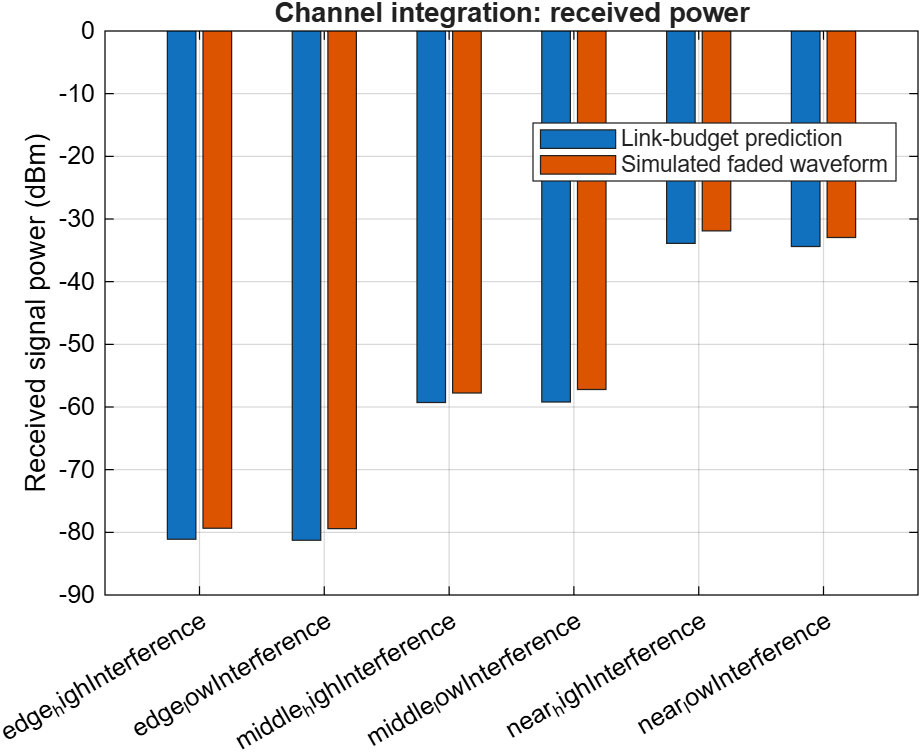
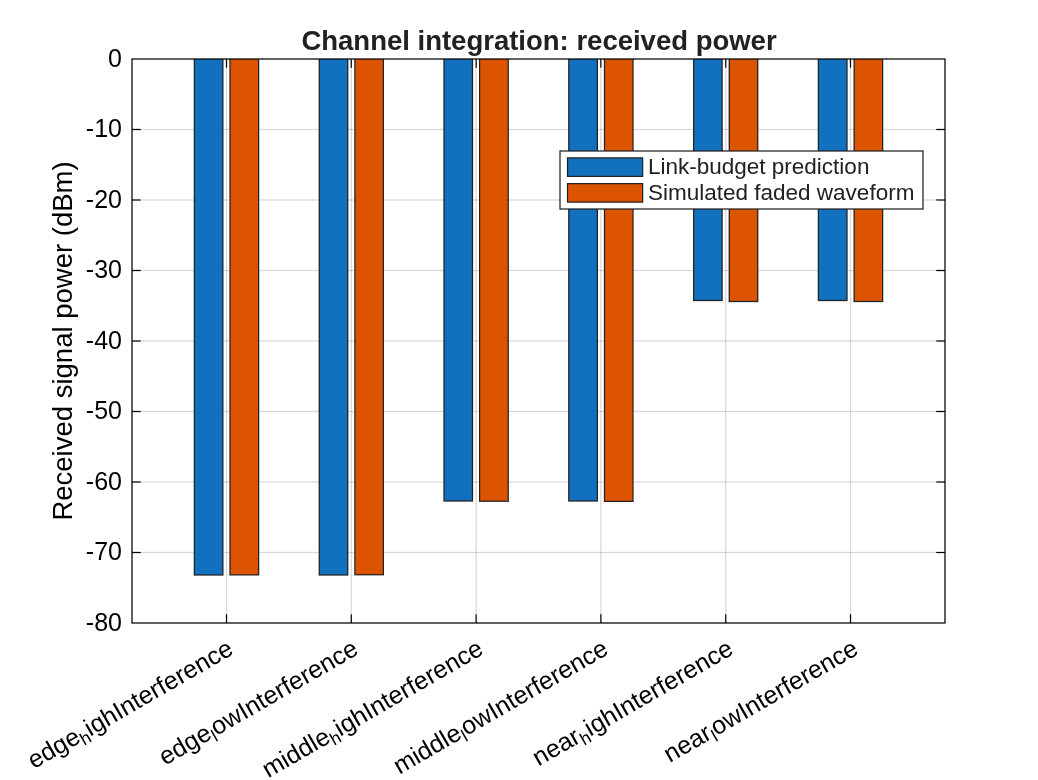
Fix OFDM interference and per-location shadowing

diff --git a/code/applyChannel.m b/code/applyChannel.m
@@ -15,8 +15,10 @@ for k=1:numel(required)
     assert(isfield(cfg,required{k}), 'Missing cfg field: %s', required{k});
 end
 assert(isfield(scenario,'distanceM') && isfield(scenario,'obstacleLossDb') && ...
-    isfield(scenario,'interferencePowerDbm') && isfield(scenario,'seed'), ...
-    'Scenario must contain distanceM, obstacleLossDb, interferencePowerDbm and seed.');
+    isfield(scenario,'interferencePowerDbm') && isfield(scenario,'seed') && ...
+    isfield(scenario,'shadowingDb'), ...
+    'Use channelScenarios: scenario needs distanceM, obstacleLossDb, interferencePowerDbm, seed and shadowingDb.');
+validateattributes(scenario.shadowingDb,{'numeric'},{'scalar','real','finite'});
 assert(cfg.sampleRateHz==cfg.bandwidthHz, 'Baseline expects sample rate = bandwidth.');
 assert(max(cfg.channelTapDelaysSamples)<cfg.cpLength, ...
     'Maximum channel delay should be less than the OFDM cyclic prefix.');
@@ -28,7 +30,7 @@ c = 299792458;
 d0 = cfg.referenceDistanceM;
 fsplDb = 20*log10(4*pi*d0*cfg.centerFrequencyHz/c);
 pathLossDb = fsplDb + 10*cfg.pathLossExponent*log10(max(scenario.distanceM,d0)/d0);
-shadowDb = cfg.shadowSigmaDb*randn(stream,1,1);
+shadowDb = scenario.shadowingDb;
 % Received signal power relative to transmit waveform: antenna gains and feeder
 % loss are included once in the RF link budget; txWaveform already has Tx power.
 largeScaleLossDb = pathLossDb + shadowDb + scenario.obstacleLossDb ...
@@ -57,15 +59,10 @@ kB=1.380649e-23; temperatureK=290;
 noisePowerW=kB*temperatureK*cfg.bandwidthHz*10^(cfg.noiseFigureDb/10);
 noise=sqrt(noisePowerW/2)*(randn(stream,size(faded))+1i*randn(stream,size(faded)));
 
-% Independent in-band co-channel interference at the specified receiver-input
-% power. A complex Gaussian process is used as a tractable wideband interferer
-% proxy; this is not a standards-compliant second WLAN transmitter waveform.
-interferencePowerW=0;
-interference=complex(zeros(size(faded)));
-if isfinite(scenario.interferencePowerDbm)
-    interferencePowerW=10^((scenario.interferencePowerDbm-30)/10);
-    interference=sqrt(interferencePowerW/2)*(randn(stream,size(faded))+1i*randn(stream,size(faded)));
-end
+% Independent continuous OFDM traffic, asynchronously cropped and scaled at
+% the receiver input. This custom waveform is not a standards-compliant WLAN.
+[interference,interfererInfo]=channelOfdmInterference( ...
+    numel(faded),cfg,scenario.interferencePowerDbm,scenario.seed+1000000);
 rxWaveform=faded+noise+interference;
 
 signalPowerW=mean(abs(faded).^2);
@@ -82,6 +79,7 @@ info.eirpDbm=cfg.txPowerDbm+cfg.txAntennaGainDbi-cfg.feederLossDb;
 info.predictedReceivedPowerDbm=info.eirpDbm+cfg.rxAntennaGainDbi-pathLossDb-shadowDb-scenario.obstacleLossDb;
 info.noisePowerDbm=10*log10(noisePowerW/1e-3);
 info.interferenceTargetDbm=scenario.interferencePowerDbm;
+info.interferer=interfererInfo;
 info.signalPowerW=signalPowerW;
 info.measuredSignalPowerDbm=10*log10(max(signalPowerW,realmin)/1e-3);
 info.measuredNoisePowerW=measuredNoiseW;

diff --git a/code/checkChannelIntegration.m b/code/checkChannelIntegration.m
@@ -11,4 +11,40 @@ assert(isequal(rx1,rx2),'Same seed should reproduce the channel waveform.');
 assert(numel(rx1)==numel(tx)+info1.leadingDelaySamples,'Unexpected received length.');
 assert(isfinite(info1.sinrDb) && isfinite(info2.sinrDb));
 assert(info1.leadingDelaySamples==8);
+% Shadowing stays fixed across frames and loads; fading varies by frame.
+assert(isequal(scenarios,channelScenarios(cfg)));
+for s=1:2:numel(scenarios)
+    assert(scenarios(s).shadowingDb==scenarios(s+1).shadowingDb);
+    [~,low]=applyChannel(tx,cfg,scenarios(s));
+    [~,high]=applyChannel(tx,cfg,scenarios(s+1));
+    assert(isequal(low.multipathTaps,high.multipathTaps));
+    for f=1:3
+        trial=scenarios(s); trial.seed=trial.seed+f;
+        [~,next]=applyChannel(tx,cfg,trial);
+        assert(next.shadowingDb==low.shadowingDb);
+        assert(~isequal(next.multipathTaps,low.multipathTaps));
+    end
+end
+% Verify OFDM structure (CP and null FFT bins), not just random power.
+state=rng;
+[interferer,details]=channelOfdmInterference(1000,cfg,-80,12345);
+assert(isequal(state,rng),'Interferer must preserve caller RNG.');
+[again,~]=channelOfdmInterference(1000,cfg,-80,12345);
+assert(isequal(interferer,again));
+assert(abs(mean(abs(interferer).^2)/1e-11-1)<1e-12);
+L=cfg.nFFT+cfg.cpLength;
+assert(details.offsetSamples>0 && details.offsetSamples<L);
+firstFull=L-details.offsetSamples+1;
+block=interferer(firstFull:firstFull+L-1);
+assert(norm(block(1:cfg.cpLength)-block(end-cfg.cpLength+1:end))<1e-15);
+bins=fft(block(cfg.cpLength+1:end));
+active=mod([cfg.dataBins cfg.pilotBins],cfg.nFFT)+1;
+nulls=setdiff(1:cfg.nFFT,active);
+assert(norm(bins(nulls))<1e-12*norm(bins(active)));
+[strong,~]=channelOfdmInterference(1000,cfg,-50,12345);
+assert(norm(strong-sqrt(1000)*interferer)<1e-12*norm(strong));
+[off,~]=channelOfdmInterference(1000,cfg,-Inf,12345);
+assert(all(off==0));
+assert(abs(info1.measuredInterferencePowerW/ ...
+    10^((scenarios(1).interferencePowerDbm-30)/10)-1)<1e-12);
 disp('Transmitter-to-channel integration checks passed.');

diff --git a/code/channelOfdmInterference.m b/code/channelOfdmInterference.m
@@ -1,0 +1,26 @@
+function [waveform,info] = channelOfdmInterference(sampleCount,cfg,powerDbm,seed)
+%CHANNELOFDMINTERFERENCE Independent QPSK OFDM traffic at receiver-input power.
+% Own random stream; 48 data carriers, configured pilots/nulls and CP.
+% Crop at a nonzero sample offset to avoid symbol alignment with desired Tx.
+% Scale the retained observation to the requested average power in watts.
+validateattributes(sampleCount,{'numeric'},{'scalar','integer','positive'});
+validateattributes(powerDbm,{'numeric'},{'scalar','real'});
+assert(isfinite(powerDbm) || powerDbm==-Inf,'Power must be finite or -Inf (disabled).');
+info=struct('seed',seed,'offsetSamples',0,'mode','QPSK');
+waveform=complex(zeros(sampleCount,1));
+if powerDbm==-Inf, return; end
+stream=RandStream('mt19937ar','Seed',double(seed));
+symbolLength=cfg.nFFT+cfg.cpLength;
+offset=randi(stream,symbolLength-1);
+nSymbols=ceil((sampleCount+offset)/symbolLength);
+traffic=complex(zeros(nSymbols*symbolLength,1));
+for k=1:nSymbols
+    bits=logical(randi(stream,[0 1],2*numel(cfg.dataBins),1));
+    symbols=txQamMap(bits,'QPSK');
+    traffic((k-1)*symbolLength+(1:symbolLength))=txOfdmSymbol(symbols,cfg);
+end
+waveform=traffic(offset+(1:sampleCount));
+powerW=10^((powerDbm-30)/10);
+waveform=waveform*sqrt(powerW/mean(abs(waveform).^2));
+info.offsetSamples=offset;
+end

diff --git a/code/channelScenarios.m b/code/channelScenarios.m
@@ -1,16 +1,21 @@
 function scenarios = channelScenarios(cfg)
 %CHANNELSCENARIOS Six cases from the shared project configuration.
 if nargin<1 || isempty(cfg), cfg=getConfig(); end
-scenarios=struct('name',{},'distanceM',{},'obstacleLossDb',{},'interferencePowerDbm',{},'seed',{});
+scenarios=struct('name',{},'distanceM',{},'obstacleLossDb',{},'interferencePowerDbm',{},'seed',{},'shadowingDb',{});
 k=0;
 for i=1:numel(cfg.distanceM)
+    % One reproducible shadow draw per location, shared across loads/frames.
+    shadowStream=RandStream('mt19937ar','Seed',double(cfg.channelSeed+10000+i));
+    shadowDb=cfg.shadowSigmaDb*randn(shadowStream,1,1);
     for j=1:numel(cfg.interferencePowerDbm)
         k=k+1;
         scenarios(k).name=sprintf('%s_%sInterference',cfg.locationNames{i},cfg.interferenceNames{j});
         scenarios(k).distanceM=cfg.distanceM(i);
         scenarios(k).obstacleLossDb=cfg.wallLossDb(i);
         scenarios(k).interferencePowerDbm=cfg.interferencePowerDbm(j);
-        scenarios(k).seed=cfg.channelSeed+k;
+        % Match fading/noise across loads; reserve distinct location ranges.
+        scenarios(k).seed=cfg.channelSeed+100000*i;
+        scenarios(k).shadowingDb=shadowDb;
     end
 end
 end
